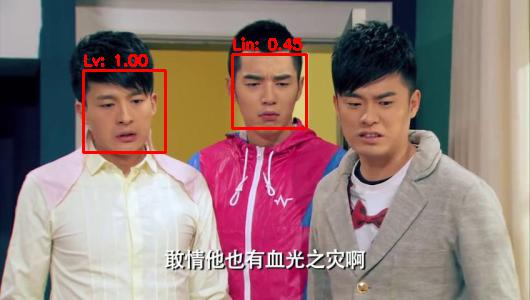
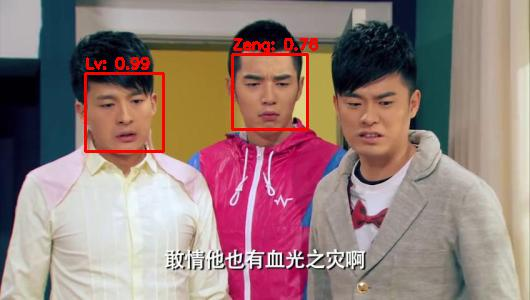
add record doc

Changed region(s): [[0.1509, 0.15, 0.3321, 0.54], [0.4226, 0.12, 0.6038, 0.45]]

diff --git a/v1/video.py b/v1/video.py
@@ -6,11 +6,14 @@ import numpy as np
 
 from v1.classifier import FaceClassifier
 
-VIDEO_PATH = u'E:/Youku Files/transcode/爱情公寓 第一季 06_超清.mp4'
-# VIDEO_PATH = u'/Users/zijiao/Desktop/love1_3.mp4'
+# VIDEO_PATH = u'E:/Youku Files/transcode/爱情公寓 第一季 06_超清.mp4'
+# SEEK = 2.5985e6
+
+VIDEO_PATH = u'/Users/zijiao/Desktop/love1_3.mp4'
+SEEK = 2.6005e6
+
 PROB_THRESHOLD = 0.5
 CLASSIFY = True
-SEEK = 2.5985e6
 
 if __name__ == '__main__':
     # cap = cv2.VideoCapture(0)

diff --git a/v1/image.py b/v1/image.py
@@ -7,7 +7,7 @@ import numpy as np
 from PIL import Image
 from v1.classifier import FaceClassifier
 
-IMAGE_PATH = utils.root_path('doc/images/test5.jpg')
+IMAGE_PATH = utils.root_path('doc/images/test6.jpg')
 PREDICTION_POSTFIX = '_prediction'
 SAVE_PREDICTION = True
 PROB_THRESHOLD = 0.5

diff --git a/record.md b/record.md
@@ -1,23 +1,74 @@
-* 收集训练数据
-    * 下载[图片源](http://www.cs.columbia.edu/CAVE/databases/pubfig/)
-    * 通过三方库来划分出识别区域
-    * 学习OpenCv的[视频处理相关Api](http://opencv-python-tutroals.readthedocs.io/en/latest/py_tutorials/py_gui/py_video_display/py_video_display.html?highlight=videocapture)
+## 基于深度学习的视频人脸检测
 
-    * 参考[Face Detection using Haar Cascades](http://opencv-python-tutroals.readthedocs.io/en/latest/py_tutorials/py_objdetect/py_face_detection/py_face_detection.html#face-detection)，完成初版人脸检测功能
+[TOC]
 
-        ![](doc/images/love.jpg)
+### 前期调研
 
-    * 准确性对比，发现对正面照还好，侧面照不行
+网上查看相关论文、博客、github源码
 
-        ![](doc/images/prediction1.png)
+### 方案选型
 
-        ![](doc/images/prediction2.png)
+> 选择原则
+>
+> * 时间成本
+>
+>   完成视频中人脸检测项目，时间进度上还是很紧张的，确定方案要参考时间限制
+>
+> * 投入成本
+>
+>   偏向短期时间节点内能快速上手且使用的方式
+>
+> * 检测效率
+>
+>   视频中包含大量的帧画面，所以对于检测的速度方面选择尽可能快速的
 
-* 模型选择
-    * 了解[R-CNN、SPP-NET、Fast-R-CNN、Faster-R-CNN、YOLO、SSD总结](http://blog.csdn.net/eli00001/article/details/52292095)
-    
-    
-    
-* 参考文献
-    * [R-CNN、SPP-NET、Fast-R-CNN、Faster-R-CNN、YOLO、SSD总结](http://blog.csdn.net/eli00001/article/details/52292095)
-    * 
+网上查看相关检测的资料，选择了各个方面综合能力较好的预选方案，并做出对比。
+
+|       模型       |  速度  |  精度  |  成本  | 小物体  | 训练周期 |
+| :------------: | :--: | :--: | :--: | :--: | :--: |
+| `OpenCV + CNN` |  快   |  一般  |  一般  |  一般  |  短   |
+|  `YOLO/YOLO2`  |  一般  |  高   |  高   |  较低  |  长   |
+|     `SSD`      |  一般  |  高   |  高   |  高   |  长   |
+
+
+
+### 数据收集
+
+#### Pubfig数据
+
+[处理脚本](scripts/pubfig/preprocess.py)
+
+由于版权问题，数据源是以链接的形式存在，于是下载脚本对链接图片进行下载，下载过程很多图片无法下载，无奈放弃该数据源
+
+#### 爱情公寓
+
+[处理脚本](scripts/video/reader.py)
+
+* OpenCV对视频的每一帧进行人脸检测
+* 将检测区域抠下来保存为人脸图片的数据源
+* 对该部分数据源进行手动分类
+
+### 模型训练
+
+[CNN分类模型](v1/classifier.py)
+
+[SSD检测模型](https://github.com/Machine-Learning-For-Research/ssd_keras)
+
+### 模型测试
+
+[图片版测试](v1/image.py)
+
+[视频版测试](v1/video.py)
+
+![](doc/images/1.gif1)
+
+
+
+*参考链接*
+
+* [R-CNN、SPP-NET、Fast-R-CNN、Faster-R-CNN、YOLO、SSD总结](http://blog.csdn.net/eli00001/article/details/52292095)
+* [Pubfig数据源](http://www.cs.columbia.edu/CAVE/databases/pubfig/)
+* [OpenCv的视频处理相关Api](http://opencv-python-tutroals.readthedocs.io/en/latest/py_tutorials/py_gui/py_video_display/py_video_display.html?highlight=videocapture)
+* [基于Haar Cascades的人脸检测](http://opencv-python-tutroals.readthedocs.io/en/latest/py_tutorials/py_objdetect/py_face_detection/py_face_detection.html#face-detection)
+* [基于深度学习的视频检测](http://blog.csdn.net/relar/article/details/51926078)
+
